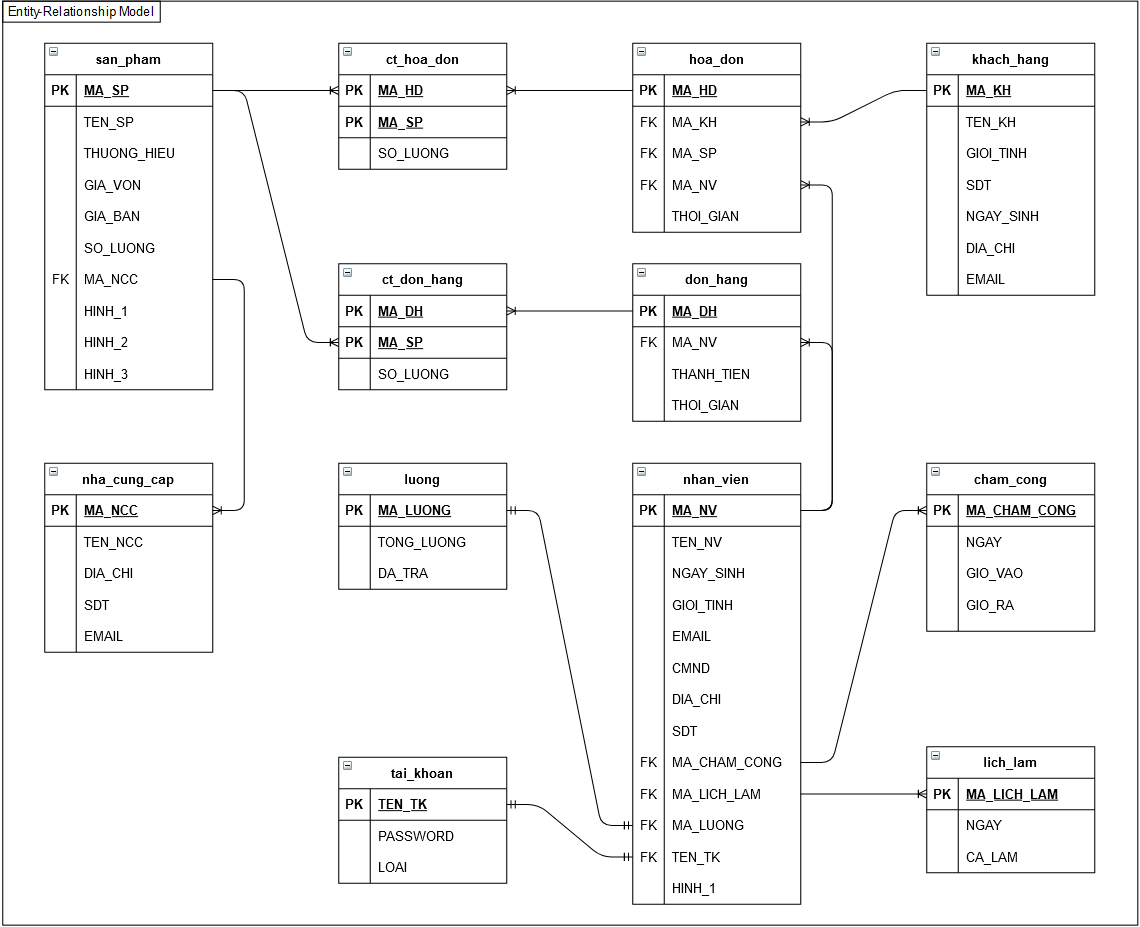
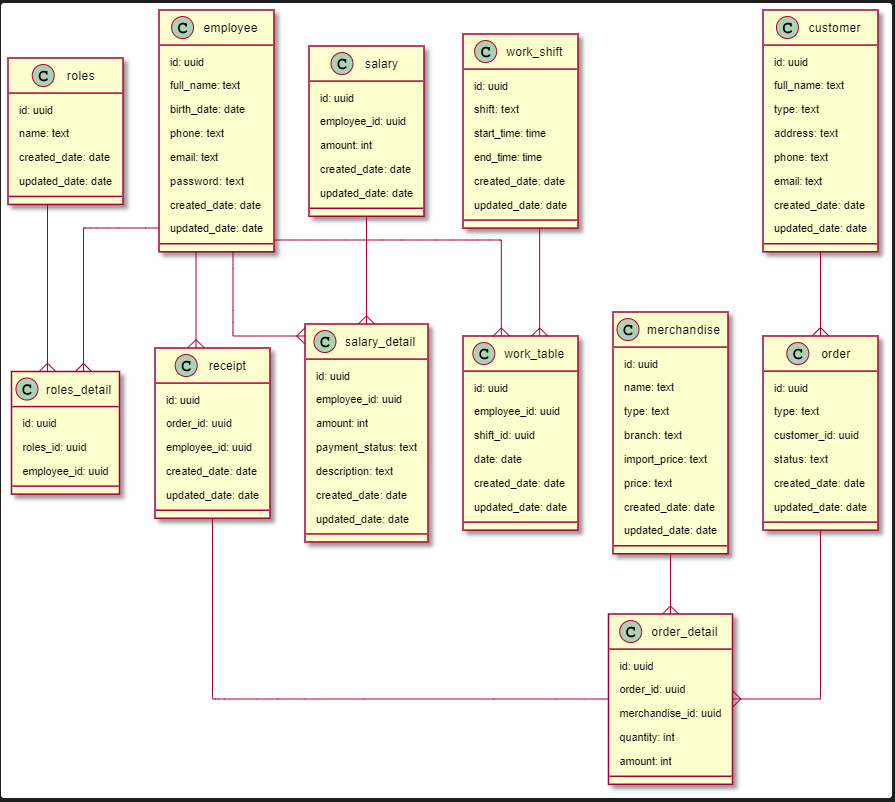
Update ERD, Create Entities: Merchandise, Order, OrderDetail

diff --git a/Software/src/main/java/entities/Merchandise.java b/Software/src/main/java/entities/Merchandise.java
@@ -1,0 +1,107 @@
+package entities;
+
+import javax.persistence.Column;
+import javax.persistence.Entity;
+import javax.persistence.Id;
+import javax.persistence.Table;
+import java.util.Date;
+
+@Entity
+@Table(name = "merchandise")
+public class Merchandise {
+    @Id
+    @Column(name = "id")
+    private String id;
+    @Column(name = "name")
+    private String name;
+    @Column(name = "type")
+    private String type;
+    @Column(name = "branch")
+    private String branch;
+    @Column(name = "import_price")
+    private String importPrice;
+    @Column(name = "price")
+    private String price;
+    @Column(name = "created_date")
+    private Date createdDate;
+    @Column(name = "updated_date")
+    private Date updatedDate;
+
+    public Merchandise() {
+    }
+
+    public Merchandise(String id, String name, String type, String branch, String importPrice, String price, Date createdDate, Date updatedDate) {
+        this.id = id;
+        this.name = name;
+        this.type = type;
+        this.branch = branch;
+        this.importPrice = importPrice;
+        this.price = price;
+        this.createdDate = createdDate;
+        this.updatedDate = updatedDate;
+    }
+
+    public String getId() {
+        return id;
+    }
+
+    public void setId(String id) {
+        this.id = id;
+    }
+
+    public String getName() {
+        return name;
+    }
+
+    public void setName(String name) {
+        this.name = name;
+    }
+
+    public String getType() {
+        return type;
+    }
+
+    public void setType(String type) {
+        this.type = type;
+    }
+
+    public String getBranch() {
+        return branch;
+    }
+
+    public void setBranch(String branch) {
+        this.branch = branch;
+    }
+
+    public String getImportPrice() {
+        return importPrice;
+    }
+
+    public void setImportPrice(String importPrice) {
+        this.importPrice = importPrice;
+    }
+
+    public String getPrice() {
+        return price;
+    }
+
+    public void setPrice(String price) {
+        this.price = price;
+    }
+
+    public Date getCreatedDate() {
+        return createdDate;
+    }
+
+    public void setCreatedDate(Date createdDate) {
+        this.createdDate = createdDate;
+    }
+
+    public Date getUpdatedDate() {
+        return updatedDate;
+    }
+
+    public void setUpdatedDate(Date updatedDate) {
+        this.updatedDate = updatedDate;
+    }
+}

diff --git a/Software/src/main/java/entities/Order.java b/Software/src/main/java/entities/Order.java
@@ -1,0 +1,85 @@
+package entities;
+
+import javax.persistence.Column;
+import javax.persistence.Entity;
+import javax.persistence.Id;
+import javax.persistence.Table;
+import java.util.Date;
+
+@Entity
+@Table(name = "order")
+public class Order {
+    @Id
+    @Column(name = "id")
+    private String id;
+    @Column(name = "type")
+    private String type;
+    @Column(name = "customer_id")
+    private String customerId;
+    @Column(name = "status")
+    private String status;
+    @Column(name = "created_date")
+    private Date createdDate;
+    @Column(name = "updated_date")
+    private Date updatedDate;
+
+    public Order() {
+    }
+
+    public Order(String id, String type, String customerId, String status, Date createdDate, Date updatedDate) {
+        this.id = id;
+        this.type = type;
+        this.customerId = customerId;
+        this.status = status;
+        this.createdDate = createdDate;
+        this.updatedDate = updatedDate;
+    }
+
+    public String getId() {
+        return id;
+    }
+
+    public void setId(String id) {
+        this.id = id;
+    }
+
+    public String getType() {
+        return type;
+    }
+
+    public void setType(String type) {
+        this.type = type;
+    }
+
+    public String getCustomerId() {
+        return customerId;
+    }
+
+    public void setCustomerId(String customerId) {
+        this.customerId = customerId;
+    }
+
+    public String getStatus() {
+        return status;
+    }
+
+    public void setStatus(String status) {
+        this.status = status;
+    }
+
+    public Date getCreatedDate() {
+        return createdDate;
+    }
+
+    public void setCreatedDate(Date createdDate) {
+        this.createdDate = createdDate;
+    }
+
+    public Date getUpdatedDate() {
+        return updatedDate;
+    }
+
+    public void setUpdatedDate(Date updatedDate) {
+        this.updatedDate = updatedDate;
+    }
+}

diff --git a/Software/src/main/java/entities/OrderDetail.java b/Software/src/main/java/entities/OrderDetail.java
@@ -1,0 +1,75 @@
+package entities;
+
+import javax.persistence.Column;
+import javax.persistence.Entity;
+import javax.persistence.Id;
+import javax.persistence.Table;
+import java.util.Date;
+
+@Entity
+@Table(name = "order_detail")
+public class OrderDetail {
+    @Id
+    @Column(name = "id")
+    private String id;
+    @Column(name = "order_id")
+    private String orderId;
+    @Column(name = "merchandise_id")
+    private String merchandiseId;
+    @Column(name = "quantity")
+    private int quantity;
+    @Column(name = "amount")
+    private int amount;
+
+    public OrderDetail() {
+    }
+
+    public OrderDetail(String id, String orderId, String merchandiseId, int quantity, int amount) {
+        this.id = id;
+        this.orderId = orderId;
+        this. merchandiseId = merchandiseId;
+        this.quantity = quantity;
+        this.amount = amount;
+    }
+
+    public String getId() {
+        return id;
+    }
+
+    public void setId(String id) {
+        this.id = id;
+    }
+
+    public String getOrderId() {
+        return orderId;
+    }
+
+    public void setOrderId(String orderId) {
+        this.orderId = orderId;
+    }
+
+    public String getMerchandiseId() {
+        return merchandiseId;
+    }
+
+    public void setMerchandiseId(String merchandiseId) {
+        this.merchandiseId = merchandiseId;
+    }
+
+    public int getQuantity() {
+        return quantity;
+    }
+
+    public void setQuantity(int quantity) {
+        this.quantity = quantity;
+    }
+
+    public int getAmount() {
+        return amount;
+    }
+
+    public void setAmount(int amount) {
+        this.amount = amount;
+    }
+
+}
